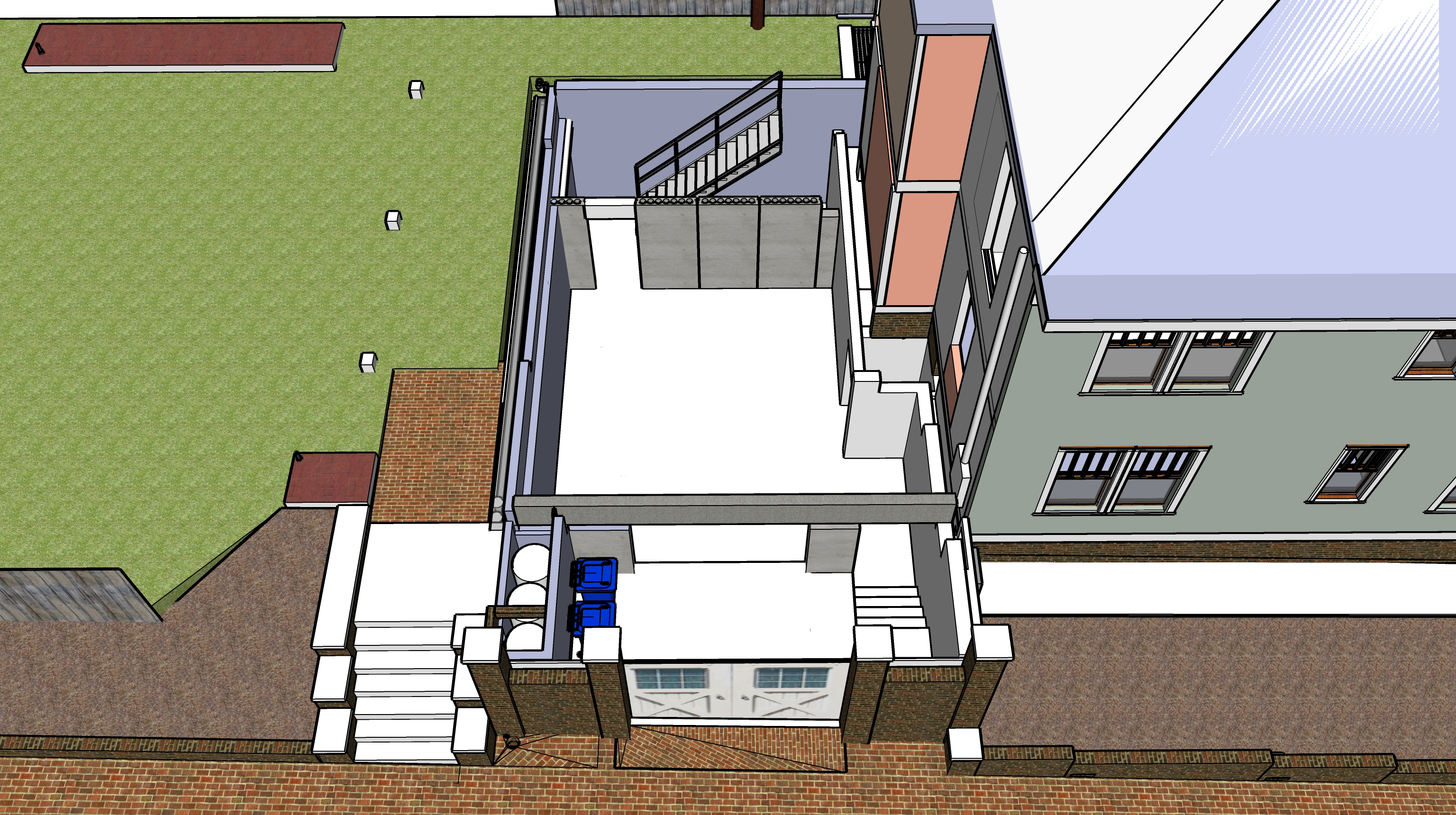
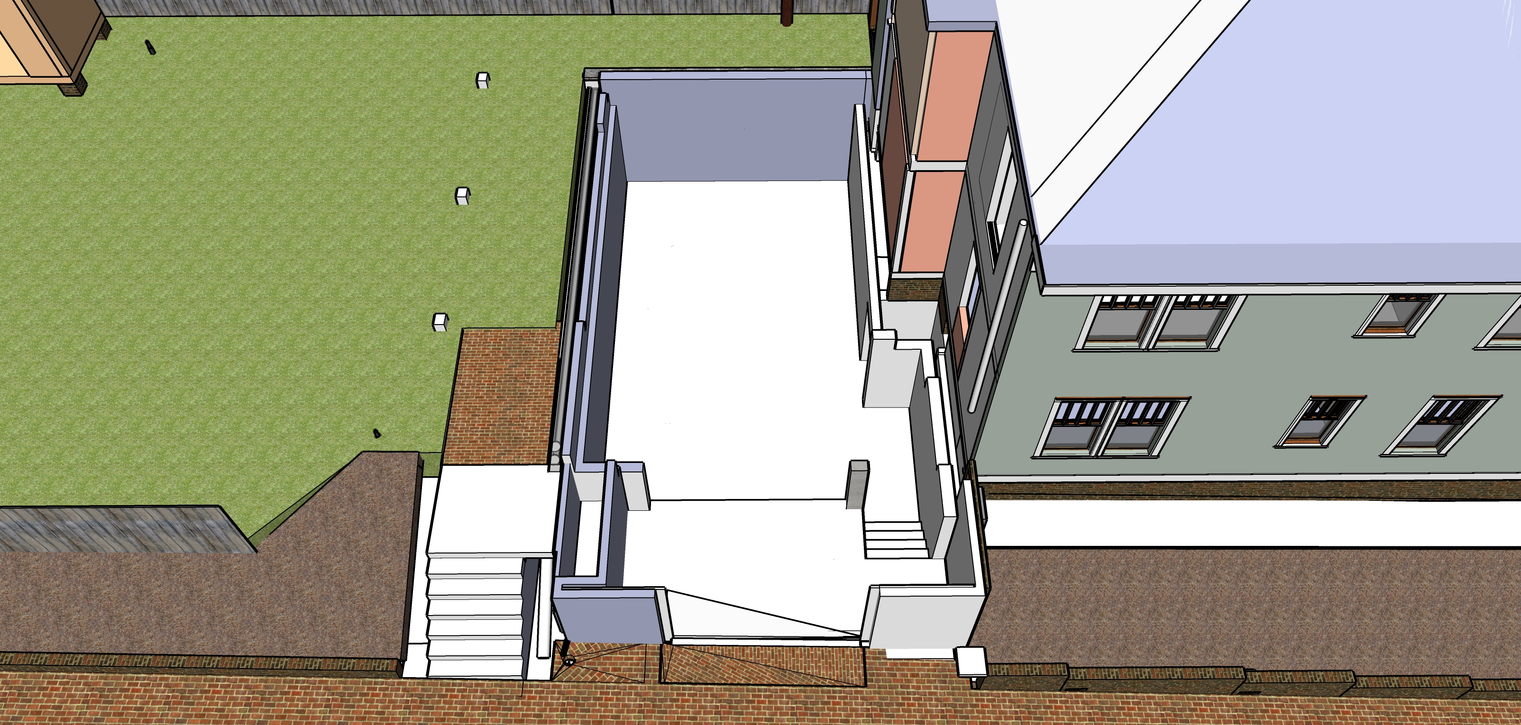
Update

diff --git a/index.html b/index.html
@@ -55,7 +55,6 @@ The existing stacked laundry rooms (7' by 14') will be moved to the back of the 
 <a href="exterior/img/before/back-laundryroom.jpg"><img src="exterior/img/before/back-laundryroom.jpg" style="width:100%; max-width: 550px; float:left; margin:0 20px 20px 0"></a>
 
 <a href="exterior/img/rear/photo-westside-wide.jpg"><img src="exterior/img/rear/photo-westside-wide.jpg" style="width:100%; max-width: 1120px"></a><br><br>
-<a href="exterior/img/rear/photo-southside-uphill.jpg"><img src="exterior/img/rear/photo-southside-uphill.jpg" style="width:100%; max-width: 1120px"></a>
 
 <div style="clear:both"></div><br>
 

diff --git a/phases/README.md b/phases/README.md
@@ -11,45 +11,42 @@ Based on value of home at time of project completion
 
 <a href="sketchup/721-Grant-Street.skp">Download SketchUp Model</a>
 
-Rough estimates for 12 construction phases, plus extras.  
+Rough estimates for construction phases, plus extras.  
 Projects indicated as "(small)" may be done independently by home owner.
 
-## Phase 1 - Remove Rear. Assemble Art Shed. Reposition AC Units.
+## Phase 1 - Convert Rear into Art Shed. Remove Concrete.
 
 | Art Shed. Remove Kitchen Ceilings. Cement AC Pad. Move AC Units | Min | Max |
 |---|---|---|
-| Jackhammer existing north cement for AC pad. Remove cement.  (small)  | $400 | $800 |
-| Pour cement pad for AC Units (small) | $600 | $800 |
-| Move AC Units, extend freon lines | $600 | $800 |
 | Cement bases for art shed footers (small) | $200 | $550 |
-| Remove 1 of 2 west brick wall where trash resides. Bricks will be used for the shed footers (small) | $400 | $600 |
-| 6 brick columns for shed. If short on bricks, some under portion being removed can be used (small) | $300 | $600 |
-| Remove enough dirt for crane to enter backyard to avoid cutting trim limb | $600 | $1,000 |
-| Remove top roof. Remove second floor windows and lower door. Separate rear structure from building. Remove rear stairway's top deck. Move lower section as one unit. Add 4x4s to reinforce open side. <a href="shed">Flip shed</a> or use crane. | $2,000 | $5,000 |
-| Chainsaw tree too close to the other and guide down with ropes or crane. Cut up large pieces. | $500 | $800 |
+| 6 brick columns for shed. If short on bricks, bricks from trash area can be used (small) | $300 | $600 |
+| Optional: Remove enough dirt for crane to enter backyard | $600 | $1,000 |
+| Remove top roof. Remove second floor windows and lower door. Separate rear structure from building. | | |
+| Remove rear stairway's top deck. (small) | | |
+| Add 4x4s to reinforce open side. <a href="shed">Flip shed</a> or use crane. | | |
+| Move lower section as one unit. | $2,000 | $5,000 |
 | Weather-seal upper edge of house after removal. Attach gutter. Cleanup. (Old siding remains) | $200 | $800 |
 | Assemble art shed. Wood from rear wall of kitchens can be used later (small) | $1,000 | $2,000 |
-| Cut up renaining branches of downed tree (small) | $200 | $300 |
-| Remove ceiling and south wall in both kitchens. Truck to cart off mortar and backing wood. (small) | $800 | $1,500 |
-| Cabinet-size freezer for new kitchen - Place upstairs (will move downstairs later) | $1,400 | $1,800 |
-| Weatherproof west door to crawl space for existing hole under removed rear. About 2' tall by 3.5' wide | $400 | $800 |
-| Repoint existing bricks (north side is done), repair crawlsoace vent openings, patch wood holes. | $1,000 | $2,000 |
-
+| **Remove Kitchen Interior Wall and Ceiling** | | |
+| Remove ceiling and south wall in downstairs kitchens. Truck to cart off mortar and backing wood. (small) | $600 | $800 |
+| Cabinet-size freezer for new kitchen - Place upstairs as island initially | $1,400 | $1,800 |
+| Install removable weather barrier for crawl space at existing hole under removed rear. About 2' tall by 3.5' wide | $400 | $500 |
+| Repoint existing bricks, repair crawlsoace vent openings, patch wood holes. | $1,400 | $2,000 |
+| **Remove tree too close to other tree** | | |
+| Chainsaw tree too close to the other and guide down with ropes or crane. Cut up large pieces. | $500 | $800 |
+| Cut up remaining branches of downed tree (small) | $200 | $300 |
 <br><br>
 
-<a href="../phases/img/AC/AC-enclosure.jpg"><img src="../phases/img/AC/AC-enclosure.jpg" style="width:100%; max-width:1200px"></a>  
-<br>
-<a href="../phases/img/AC/AC-units.jpg"><img src="../phases/img/AC/AC-units.jpg" style="width:100%; max-width:1200px"></a>  
-<br><br>
 
-<a href="../phases/img/AC/AC-units-2D.jpg"><img src="../phases/img/AC/AC-units-2D.jpg" style="width:100%; max-width:1200px"></a>  
-<br>
 
-Prior to removal of rear laundry areas:<br>
-<a href="../phases/img/initial.jpg"><img src="../phases/img/initial.jpg" style="width:100%; max-width:1200px"></a>  
+Rear laundry area to be removed and converted into art shed:<br>
+<a href="../phases/img/initial.jpg"><img src="../phases/img/initial.jpg" style="width:100%; max-width:1100px"></a>  
+<br>
+<a href="../exterior/img/rear/photo-southside-uphill.jpg"><img src="../exterior/img/rear/photo-southside-uphill.jpg" style="width:100%; max-width: 1100px"></a><br>
+Protecting large trees.  Tree to be removed is smaller - between these two at northwest corner of house.
 <br>
 
-## Phase 2 - Basement and Brickwork
+## Phase 2 - Basement, Drainage and Brickwork
 
 <!--
 Basement Framing and Pour
@@ -58,7 +55,11 @@ Possible resource: Fernando Garcia 404-538-2458 - Basement on Georgia Ave (July 
 
 | Cement work, window within basement, sliding basement entrance |||
 |---|---|---|
-| **Cement work:** | | |
+| Jackhammer existing north cement for AC pad. Remove cement.  (small)  | $400 | $800 |
+| Remove remaining brick wall where trash resides. Retain bricks for reuse (small) | $400 | $600 |
+| Remove slate rear patio | | |
+| **Basement/Cement Work** | | |
+| Pour cement pad for AC Units (small) | $600 | $800 |
 | Rear porch 3 cement pedestal bases (small) | $200 | $400 |
 | Basement Dig, Frame and Pour - includes sump pump and a few feet of drain pipe  | $10,000 | $30,000 |
 | North bump-out foundation cement pour at same time | $2,000 | $4,000 |
@@ -71,21 +72,48 @@ Possible resource: Fernando Garcia 404-538-2458 - Basement on Georgia Ave (July 
 | **Hollow Core Delivery:** | | |
 | Hollow core slabs, lifted into place by crane on truck | $15,000 | $25,000 |
 | Weatherproof plywood cover over basement stair opening, secure from below (small) | $100 | $200 |
-| **Detail work:** | | |
-| Metal stairway in basement | $1,000 | $4,000 |
-| Grate over HVAC units | $800 | $1,500 |
-| Basement window under porch. Black frame, an old factory look. Slides or swings open fully.  | $900 | $1,400 |
-| Thick porch tiles laid out for rain absorption as back porch (small) | $400 | $800 |
-| Rain barrels and pipe hookup under south steps | $1,000 | $2,500 |
-| Basement sliding doors adjacent to sidewalk | $2,000 | $5,000 |
-| Wooden porch steps - detachable, over rain barrels | $500 | $700 |
-| Install tiny door, install tiny sunburst (Abbey) |  |  |
+
 
 <br><br>
 <a href="../phases/img/basement.jpg"><img src="../phases/img/basement.jpg" style="width:100%; max-width:1200px"></a><br>
+<br><br>
+<!--
+<a href="../phases/img/basement/slab.jpg"><img src="../phases/img/basement/slab.jpg" style="width:100%; max-width:1200px"></a><br>
+<br><br>
+-->
+<a href="../phases/img/basement/brickwork.jpg"><img src="../phases/img/basement/brickwork.jpg" style="width:100%; max-width:1200px"></a><br>
+<br><br>
+
+## Phase 3 - Reposition 2 exterior AC Units.  Add Grate over Units
+
+| AC Units, Install Mini-split in Downstairs Kitchen |||
+|---|---|---|
+| Move AC Units, extend freon lines | $600 | $800 |
+| Install Mini-split in Downstairs Kitchen | $1,500 | $2,000 | 
+| Grate over HVAC units | $800 | $1,500 |
+| **Basement Details:** | | |
+| Metal stairway in basement | $1,000 | $4,000 |
+| Basement window under porch. Black frame, an old factory look. Slides or swings open fully.  | $900 | $1,400 |
+| Basement sliding doors adjacent to sidewalk | $2,000 | $5,000 |
+| **Exterior Detail Work:** | | |
+| Wooden porch steps - detachable, over rain barrels | $500 | $700 |
+| Thick porch tiles laid out for rain absorption as back porch (small) | $400 | $800 |
+| Rain barrels and pipe hookup under south steps | $1,000 | $2,500 |
+| Install tiny door, install tiny sunburst (Abbey) |  |  |
+
+<br><br>
+<a href="../phases/img/AC/AC-units-2D.jpg"><img src="../phases/img/AC/AC-units-2D.jpg" style="width:100%; max-width:1200px"></a>  
+<br>
+
+<a href="../phases/img/AC/AC-units.jpg"><img src="../phases/img/AC/AC-units.jpg" style="width:100%; max-width:1200px"></a>  
+<br><br>
+
+**Basement Details**
+<a href="../phases/img/basement/basement-details.jpg"><img src="../phases/img/basement/basement-details.jpg" style="width:100%; max-width:1200px"></a><br>
+<br><br>
 
 
-## Phase 3 - Framework, Roof, Stairways, Windows, Siding, Electric
+## Phase 4 - Framework, Roof, Stairways, Windows, Siding, Electric
 ||||
 |---|---|---|
 | "Base Isolated" House - pads to dampen earthquake vibration | $500 | $1,000 |
@@ -192,7 +220,12 @@ Possible resource: Fernando Garcia 404-538-2458 - Basement on Georgia Ave (July 
 <a href="../kitchen/img/kitchen.jpg"><img src="../kitchen/img/kitchen.jpg" style="width:100%; max-width: 1200px"></a><br>
 <a href="../kitchen/">More Kitchen Images</a><br>
 
-## Phase 11 - Exterior Fireplace
+## Phase 12 - Exterior Wood Structures
+
+<a href="../phases/img/AC/AC-enclosure.jpg"><img src="../phases/img/AC/AC-enclosure.jpg" style="width:100%; max-width:1200px"></a>  
+<br>
+
+## Phase 13 - Exterior Fireplace
 | Porch fireplace grill provides heat to house |||
 |---|---|---|
 | Barbecue grill with stone enclosure | $3,000 | $8,000 |
@@ -258,7 +291,7 @@ Hollow Core slabs could provide a heat-sink in the main floor, storing heat gene
 <br><br>
 
 <!--
-<img src="../phases/img/concrete/core-slab-pcm.jpg" style="width:100%; max-width:800px"><br>
+<img src="../phases/img/basement/core-slab-pcm.jpg" style="width:100%; max-width:800px"><br>
 -->
 
 PCM can be placed in hollow core tubes as a thermal storage and supply system <a href="https://www.sciencedirect.com/science/article/abs/pii/S0378778815300591">PCM Research</a><br>
